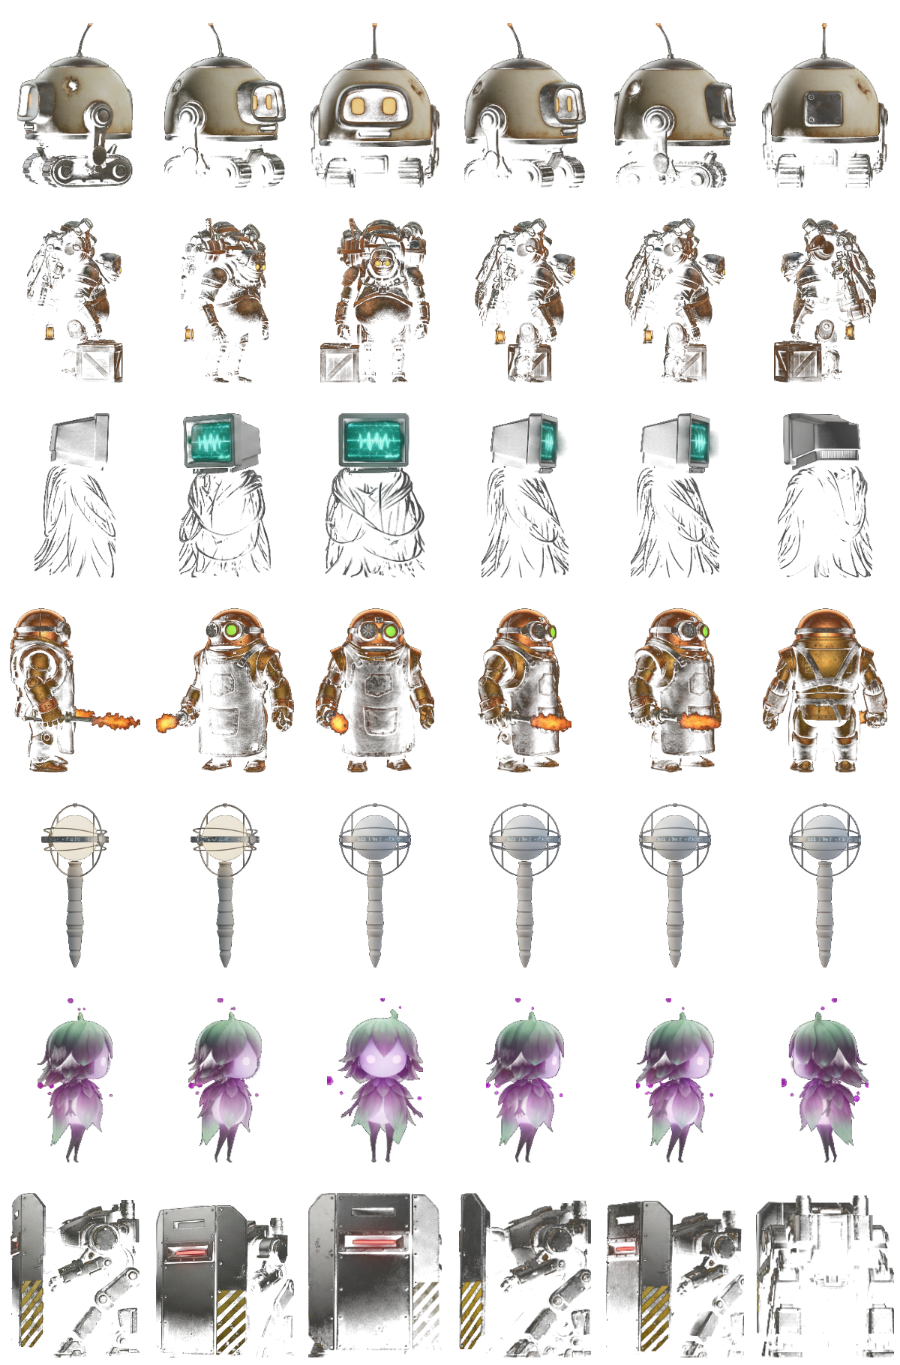
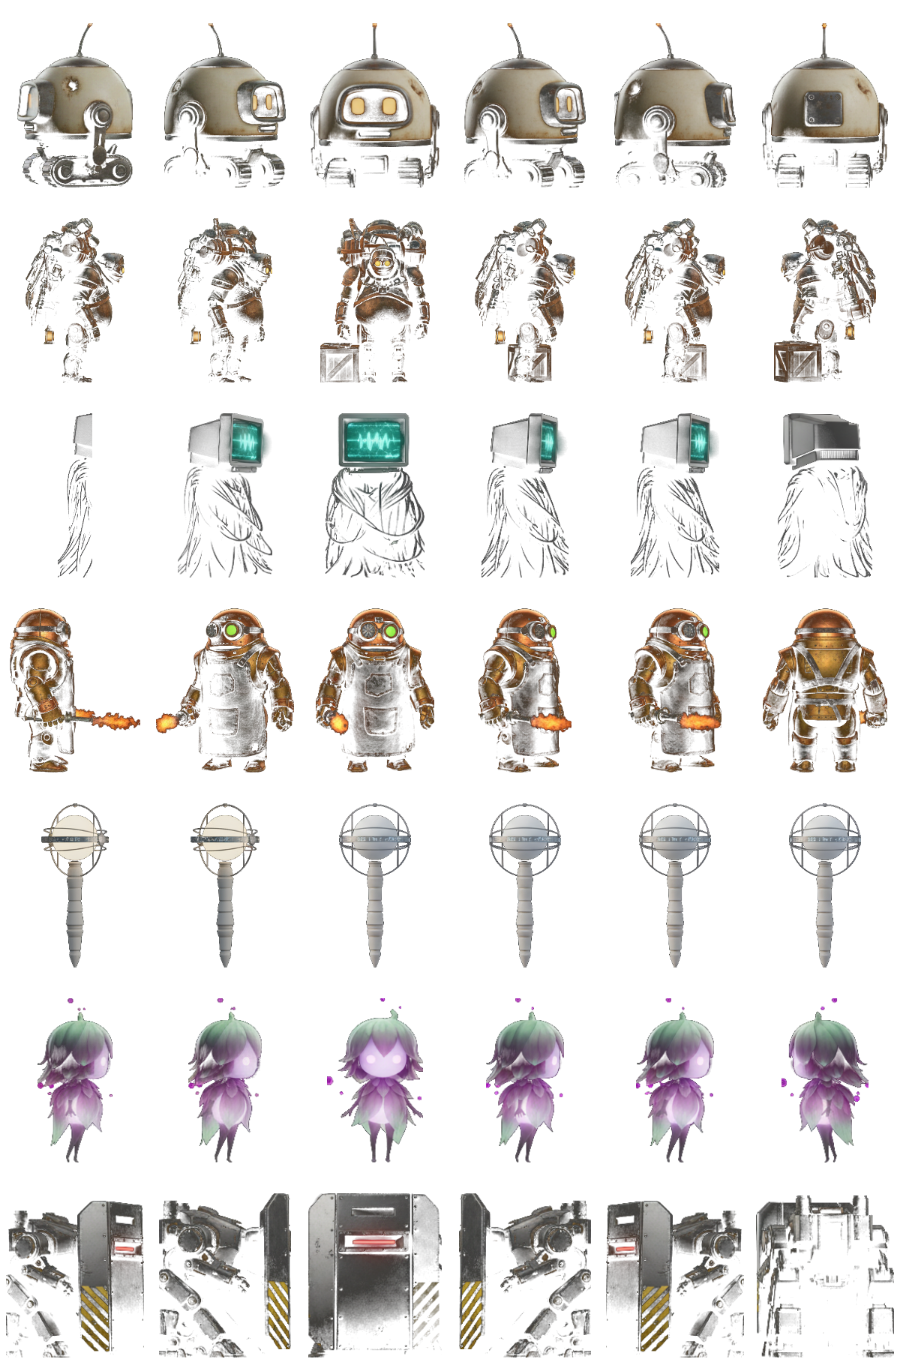
The turnaround sheet, corrected — and the one mirror the game admits to
Three characters had come back facing the same way in BOTH half-turns, so
their "turnaround" was a half-turn shown twice. The tool now measures it:
column 0 and column 4 are opposite profiles and must therefore be the least
similar pair in the row, and it names any row where they are not. Two of the
three were fixed by saying the direction in a way the generator could not
read past — which side of the body the shield leads on, which side the pack
trails on, rather than "facing right".

The guard could not be fixed that way. Three prompts and two reference-guided
passes all put its shield on the same side; the model will not render the
other half of that silhouette. So the guard is mirrored, and it is the only
thing in this game that is — because a guard facing the wrong way is a
GAMEPLAY bug (where its shield points is the whole fight) while a guard lit
from the wrong side, on flat gunmetal, is very nearly nothing. The compromise
is baked into the asset by the tool, where it is visible, rather than hidden
as a runtime branch in the renderer where it would quietly become the general
case again.

Also: some renders come back with thin vertical rules between the cells.
They survive a width floor — a four-pixel line is a four-pixel band — and one
counted as a figure shifts every pick in a row by one, which is how the
Oracle ended up presenting the back of its own head. Bands are now judged
against the widest band in their own strip. The first threshold for that was
[…]

Changed region(s): [[0.0, 0.8615, 0.3422, 1.0], [0.1867, 0.1538, 0.3111, 0.4308], [0.0311, 0.1538, 0.1556, 0.4308]]

diff --git a/index.html b/index.html
@@ -225,7 +225,7 @@
 })();
 </script>
 
-<script>window.BUILD_ID="msr7ets5";window.GAME_LOCK="robo";window.MUS_FILES={"ambient_observing_the_star":"assets/music/ambient_observing_the_star.ogg","epic_combat":"assets/music/epic_combat.ogg","mus_archives":"assets/music/mus_archives.m4a","mus_boss":"assets/music/mus_boss.m4a","mus_cache":"assets/music/mus_cache.m4a","mus_conduits":"assets/music/mus_conduits.m4a","mus_ending":"assets/music/mus_ending.m4a","mus_foundry":"assets/music/mus_foundry.m4a","mus_furnace":"assets/music/mus_furnace.m4a","mus_glaciere":"assets/music/mus_glaciere.m4a","mus_intro":"assets/music/mus_intro.m4a","mus_meadows":"assets/music/mus_meadows.m4a","mus_mother":"assets/music/mus_mother.m4a","mus_nest":"assets/music/mus_nest.m4a","mus_nullfang":"assets/music/mus_nullfang.m4a","mus_prism":"assets/music/mus_prism.m4a","mus_talonhost":"assets/music/mus_talonhost.m4a","mus_title":"assets/music/mus_title.m4a"};window.VID_FILES={"end_atlas":"assets/video/end_atlas.mp4","end_brood":"assets/video/end_brood.mp4","end_close":"assets/video/end_close.mp4","end_folk":"assets/video/end_folk.mp4","end_glitch":"assets/video/end_glitch.mp4","end_mother":"assets/video/end_mother.mp4","end_open":"assets/video/end_open.mp4","end_prism":"assets/video/end_prism.mp4","end_zero":"assets/video/end_zero.mp4","intro1":"assets/video/intro1.mp4","intro2":"assets/video/intro2.mp4","intro3":"assets/video/intro3.mp4","intro4":"assets/video/intro4.mp4","intro5":"assets/video/intro5.mp4","intro6":"assets/video/intro6.mp4","intro7":"assets/video/intro7.mp4","intro8":"assets/video/intro8.mp4","purify_atlas":"assets/video/purify_atlas.mp4","purify_brood":"assets/video/purify_brood.mp4","purify_glitch":"assets/video/purify_glitch.mp4","purify_prism":"assets/video/purify_prism.mp4","purify_zero":"assets/video/purify_zero.mp4"};window.VID_ALT={"end_atlas":"assets/video/end_atlas.webm","end_brood":"assets/video/end_brood.webm","end_close":"assets/video/end_close.webm","end_folk":"assets/video/end_folk.webm","end_glitch":"assets/video/end_glitch.webm","end_mother":"assets/video/end_mother.webm","end_open":"assets/video/end_open.webm","end_prism":"assets/video/end_prism.webm","end_zero":"assets/video/end_zero.webm","intro1":"assets/video/intro1.webm","intro2":"assets/video/intro2.webm","intro3":"assets/video/intro3.webm","intro4":"assets/video/intro4.webm","intro5":"assets/video/intro5.webm","intro6":"assets/video/intro6.webm","intro7":"assets/video/intro7.webm","intro8":"assets/video/intro8.webm","purify_atlas":"assets/video/purify_atlas.webm","purify_brood":"assets/video/purify_brood.webm","purify_glitch":"assets/video/purify_glitch.webm","purify_prism":"assets/video/purify_prism.webm","purify_zero":"assets/video/purify_zero.webm"};window.VOX_FILES={"lumen0":"assets/vox/lumen0.ogg","lumen1":"assets/vox/lumen1.ogg","lumen2":"assets/vox/lumen2.ogg","mono0":"assets/vox/mono0.ogg","mono1":"assets/vox/mono1.ogg","mono2":"assets/vox/mono2.ogg","patch0":"assets/vox/patch0.ogg","patch1":"assets/vox/patch1.ogg","patch2":"assets/vox/patch2.ogg","ratchet0":"assets/vox/ratchet0.ogg","ratchet1":"assets/vox/ratchet1.ogg","sage0":"assets/vox/sage0.ogg","sage1":"assets/vox/sage1.ogg","sage2":"assets/vox/sage2.ogg","servo0":"assets/vox/servo0.ogg","servo1":"assets/vox/servo1.ogg","servo2":"assets/vox/servo2.ogg","servo3":"assets/vox/servo3.ogg"}</script>
+<script>window.BUILD_ID="msr7r3ir";window.GAME_LOCK="robo";window.MUS_FILES={"ambient_observing_the_star":"assets/music/ambient_observing_the_star.ogg","epic_combat":"assets/music/epic_combat.ogg","mus_archives":"assets/music/mus_archives.m4a","mus_boss":"assets/music/mus_boss.m4a","mus_cache":"assets/music/mus_cache.m4a","mus_conduits":"assets/music/mus_conduits.m4a","mus_ending":"assets/music/mus_ending.m4a","mus_foundry":"assets/music/mus_foundry.m4a","mus_furnace":"assets/music/mus_furnace.m4a","mus_glaciere":"assets/music/mus_glaciere.m4a","mus_intro":"assets/music/mus_intro.m4a","mus_meadows":"assets/music/mus_meadows.m4a","mus_mother":"assets/music/mus_mother.m4a","mus_nest":"assets/music/mus_nest.m4a","mus_nullfang":"assets/music/mus_nullfang.m4a","mus_prism":"assets/music/mus_prism.m4a","mus_talonhost":"assets/music/mus_talonhost.m4a","mus_title":"assets/music/mus_title.m4a"};window.VID_FILES={"end_atlas":"assets/video/end_atlas.mp4","end_brood":"assets/video/end_brood.mp4","end_close":"assets/video/end_close.mp4","end_folk":"assets/video/end_folk.mp4","end_glitch":"assets/video/end_glitch.mp4","end_mother":"assets/video/end_mother.mp4","end_open":"assets/video/end_open.mp4","end_prism":"assets/video/end_prism.mp4","end_zero":"assets/video/end_zero.mp4","intro1":"assets/video/intro1.mp4","intro2":"assets/video/intro2.mp4","intro3":"assets/video/intro3.mp4","intro4":"assets/video/intro4.mp4","intro5":"assets/video/intro5.mp4","intro6":"assets/video/intro6.mp4","intro7":"assets/video/intro7.mp4","intro8":"assets/video/intro8.mp4","purify_atlas":"assets/video/purify_atlas.mp4","purify_brood":"assets/video/purify_brood.mp4","purify_glitch":"assets/video/purify_glitch.mp4","purify_prism":"assets/video/purify_prism.mp4","purify_zero":"assets/video/purify_zero.mp4"};window.VID_ALT={"end_atlas":"assets/video/end_atlas.webm","end_brood":"assets/video/end_brood.webm","end_close":"assets/video/end_close.webm","end_folk":"assets/video/end_folk.webm","end_glitch":"assets/video/end_glitch.webm","end_mother":"assets/video/end_mother.webm","end_open":"assets/video/end_open.webm","end_prism":"assets/video/end_prism.webm","end_zero":"assets/video/end_zero.webm","intro1":"assets/video/intro1.webm","intro2":"assets/video/intro2.webm","intro3":"assets/video/intro3.webm","intro4":"assets/video/intro4.webm","intro5":"assets/video/intro5.webm","intro6":"assets/video/intro6.webm","intro7":"assets/video/intro7.webm","intro8":"assets/video/intro8.webm","purify_atlas":"assets/video/purify_atlas.webm","purify_brood":"assets/video/purify_brood.webm","purify_glitch":"assets/video/purify_glitch.webm","purify_prism":"assets/video/purify_prism.webm","purify_zero":"assets/video/purify_zero.webm"};window.VOX_FILES={"lumen0":"assets/vox/lumen0.ogg","lumen1":"assets/vox/lumen1.ogg","lumen2":"assets/vox/lumen2.ogg","mono0":"assets/vox/mono0.ogg","mono1":"assets/vox/mono1.ogg","mono2":"assets/vox/mono2.ogg","patch0":"assets/vox/patch0.ogg","patch1":"assets/vox/patch1.ogg","patch2":"assets/vox/patch2.ogg","ratchet0":"assets/vox/ratchet0.ogg","ratchet1":"assets/vox/ratchet1.ogg","sage0":"assets/vox/sage0.ogg","sage1":"assets/vox/sage1.ogg","sage2":"assets/vox/sage2.ogg","servo0":"assets/vox/servo0.ogg","servo1":"assets/vox/servo1.ogg","servo2":"assets/vox/servo2.ogg","servo3":"assets/vox/servo3.ogg"}</script>
 <script>
 // THE FIRST BOSS — virus-infected robot beast, and its whelps.
 //

diff --git a/odyssey.html b/odyssey.html
@@ -225,7 +225,7 @@
 })();
 </script>
 
-<script>window.BUILD_ID="msr7ets5";window.GAME_LOCK="hero";window.MUS_FILES={"ambient_observing_the_star":"assets/music/ambient_observing_the_star.ogg","epic_combat":"assets/music/epic_combat.ogg","mus_archives":"assets/music/mus_archives.m4a","mus_boss":"assets/music/mus_boss.m4a","mus_cache":"assets/music/mus_cache.m4a","mus_conduits":"assets/music/mus_conduits.m4a","mus_ending":"assets/music/mus_ending.m4a","mus_foundry":"assets/music/mus_foundry.m4a","mus_furnace":"assets/music/mus_furnace.m4a","mus_glaciere":"assets/music/mus_glaciere.m4a","mus_intro":"assets/music/mus_intro.m4a","mus_meadows":"assets/music/mus_meadows.m4a","mus_mother":"assets/music/mus_mother.m4a","mus_nest":"assets/music/mus_nest.m4a","mus_nullfang":"assets/music/mus_nullfang.m4a","mus_prism":"assets/music/mus_prism.m4a","mus_talonhost":"assets/music/mus_talonhost.m4a","mus_title":"assets/music/mus_title.m4a"};window.VID_FILES={"end_atlas":"assets/video/end_atlas.mp4","end_brood":"assets/video/end_brood.mp4","end_close":"assets/video/end_close.mp4","end_folk":"assets/video/end_folk.mp4","end_glitch":"assets/video/end_glitch.mp4","end_mother":"assets/video/end_mother.mp4","end_open":"assets/video/end_open.mp4","end_prism":"assets/video/end_prism.mp4","end_zero":"assets/video/end_zero.mp4","intro1":"assets/video/intro1.mp4","intro2":"assets/video/intro2.mp4","intro3":"assets/video/intro3.mp4","intro4":"assets/video/intro4.mp4","intro5":"assets/video/intro5.mp4","intro6":"assets/video/intro6.mp4","intro7":"assets/video/intro7.mp4","intro8":"assets/video/intro8.mp4","purify_atlas":"assets/video/purify_atlas.mp4","purify_brood":"assets/video/purify_brood.mp4","purify_glitch":"assets/video/purify_glitch.mp4","purify_prism":"assets/video/purify_prism.mp4","purify_zero":"assets/video/purify_zero.mp4"};window.VID_ALT={"end_atlas":"assets/video/end_atlas.webm","end_brood":"assets/video/end_brood.webm","end_close":"assets/video/end_close.webm","end_folk":"assets/video/end_folk.webm","end_glitch":"assets/video/end_glitch.webm","end_mother":"assets/video/end_mother.webm","end_open":"assets/video/end_open.webm","end_prism":"assets/video/end_prism.webm","end_zero":"assets/video/end_zero.webm","intro1":"assets/video/intro1.webm","intro2":"assets/video/intro2.webm","intro3":"assets/video/intro3.webm","intro4":"assets/video/intro4.webm","intro5":"assets/video/intro5.webm","intro6":"assets/video/intro6.webm","intro7":"assets/video/intro7.webm","intro8":"assets/video/intro8.webm","purify_atlas":"assets/video/purify_atlas.webm","purify_brood":"assets/video/purify_brood.webm","purify_glitch":"assets/video/purify_glitch.webm","purify_prism":"assets/video/purify_prism.webm","purify_zero":"assets/video/purify_zero.webm"};window.VOX_FILES={"lumen0":"assets/vox/lumen0.ogg","lumen1":"assets/vox/lumen1.ogg","lumen2":"assets/vox/lumen2.ogg","mono0":"assets/vox/mono0.ogg","mono1":"assets/vox/mono1.ogg","mono2":"assets/vox/mono2.ogg","patch0":"assets/vox/patch0.ogg","patch1":"assets/vox/patch1.ogg","patch2":"assets/vox/patch2.ogg","ratchet0":"assets/vox/ratchet0.ogg","ratchet1":"assets/vox/ratchet1.ogg","sage0":"assets/vox/sage0.ogg","sage1":"assets/vox/sage1.ogg","sage2":"assets/vox/sage2.ogg","servo0":"assets/vox/servo0.ogg","servo1":"assets/vox/servo1.ogg","servo2":"assets/vox/servo2.ogg","servo3":"assets/vox/servo3.ogg"}</script>
+<script>window.BUILD_ID="msr7r3ir";window.GAME_LOCK="hero";window.MUS_FILES={"ambient_observing_the_star":"assets/music/ambient_observing_the_star.ogg","epic_combat":"assets/music/epic_combat.ogg","mus_archives":"assets/music/mus_archives.m4a","mus_boss":"assets/music/mus_boss.m4a","mus_cache":"assets/music/mus_cache.m4a","mus_conduits":"assets/music/mus_conduits.m4a","mus_ending":"assets/music/mus_ending.m4a","mus_foundry":"assets/music/mus_foundry.m4a","mus_furnace":"assets/music/mus_furnace.m4a","mus_glaciere":"assets/music/mus_glaciere.m4a","mus_intro":"assets/music/mus_intro.m4a","mus_meadows":"assets/music/mus_meadows.m4a","mus_mother":"assets/music/mus_mother.m4a","mus_nest":"assets/music/mus_nest.m4a","mus_nullfang":"assets/music/mus_nullfang.m4a","mus_prism":"assets/music/mus_prism.m4a","mus_talonhost":"assets/music/mus_talonhost.m4a","mus_title":"assets/music/mus_title.m4a"};window.VID_FILES={"end_atlas":"assets/video/end_atlas.mp4","end_brood":"assets/video/end_brood.mp4","end_close":"assets/video/end_close.mp4","end_folk":"assets/video/end_folk.mp4","end_glitch":"assets/video/end_glitch.mp4","end_mother":"assets/video/end_mother.mp4","end_open":"assets/video/end_open.mp4","end_prism":"assets/video/end_prism.mp4","end_zero":"assets/video/end_zero.mp4","intro1":"assets/video/intro1.mp4","intro2":"assets/video/intro2.mp4","intro3":"assets/video/intro3.mp4","intro4":"assets/video/intro4.mp4","intro5":"assets/video/intro5.mp4","intro6":"assets/video/intro6.mp4","intro7":"assets/video/intro7.mp4","intro8":"assets/video/intro8.mp4","purify_atlas":"assets/video/purify_atlas.mp4","purify_brood":"assets/video/purify_brood.mp4","purify_glitch":"assets/video/purify_glitch.mp4","purify_prism":"assets/video/purify_prism.mp4","purify_zero":"assets/video/purify_zero.mp4"};window.VID_ALT={"end_atlas":"assets/video/end_atlas.webm","end_brood":"assets/video/end_brood.webm","end_close":"assets/video/end_close.webm","end_folk":"assets/video/end_folk.webm","end_glitch":"assets/video/end_glitch.webm","end_mother":"assets/video/end_mother.webm","end_open":"assets/video/end_open.webm","end_prism":"assets/video/end_prism.webm","end_zero":"assets/video/end_zero.webm","intro1":"assets/video/intro1.webm","intro2":"assets/video/intro2.webm","intro3":"assets/video/intro3.webm","intro4":"assets/video/intro4.webm","intro5":"assets/video/intro5.webm","intro6":"assets/video/intro6.webm","intro7":"assets/video/intro7.webm","intro8":"assets/video/intro8.webm","purify_atlas":"assets/video/purify_atlas.webm","purify_brood":"assets/video/purify_brood.webm","purify_glitch":"assets/video/purify_glitch.webm","purify_prism":"assets/video/purify_prism.webm","purify_zero":"assets/video/purify_zero.webm"};window.VOX_FILES={"lumen0":"assets/vox/lumen0.ogg","lumen1":"assets/vox/lumen1.ogg","lumen2":"assets/vox/lumen2.ogg","mono0":"assets/vox/mono0.ogg","mono1":"assets/vox/mono1.ogg","mono2":"assets/vox/mono2.ogg","patch0":"assets/vox/patch0.ogg","patch1":"assets/vox/patch1.ogg","patch2":"assets/vox/patch2.ogg","ratchet0":"assets/vox/ratchet0.ogg","ratchet1":"assets/vox/ratchet1.ogg","sage0":"assets/vox/sage0.ogg","sage1":"assets/vox/sage1.ogg","sage2":"assets/vox/sage2.ogg","servo0":"assets/vox/servo0.ogg","servo1":"assets/vox/servo1.ogg","servo2":"assets/vox/servo2.ogg","servo3":"assets/vox/servo3.ogg"}</script>
 <script>
 // THE FIRST BOSS — virus-infected robot beast, and its whelps.
 //
